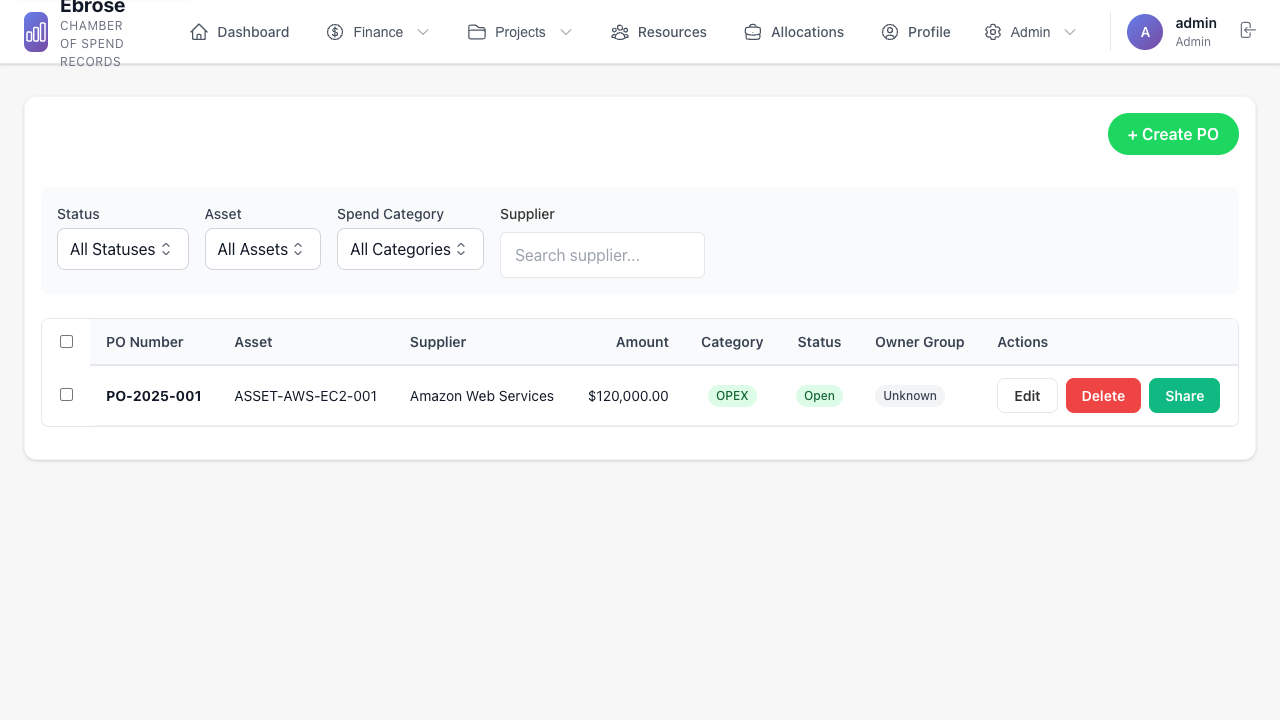
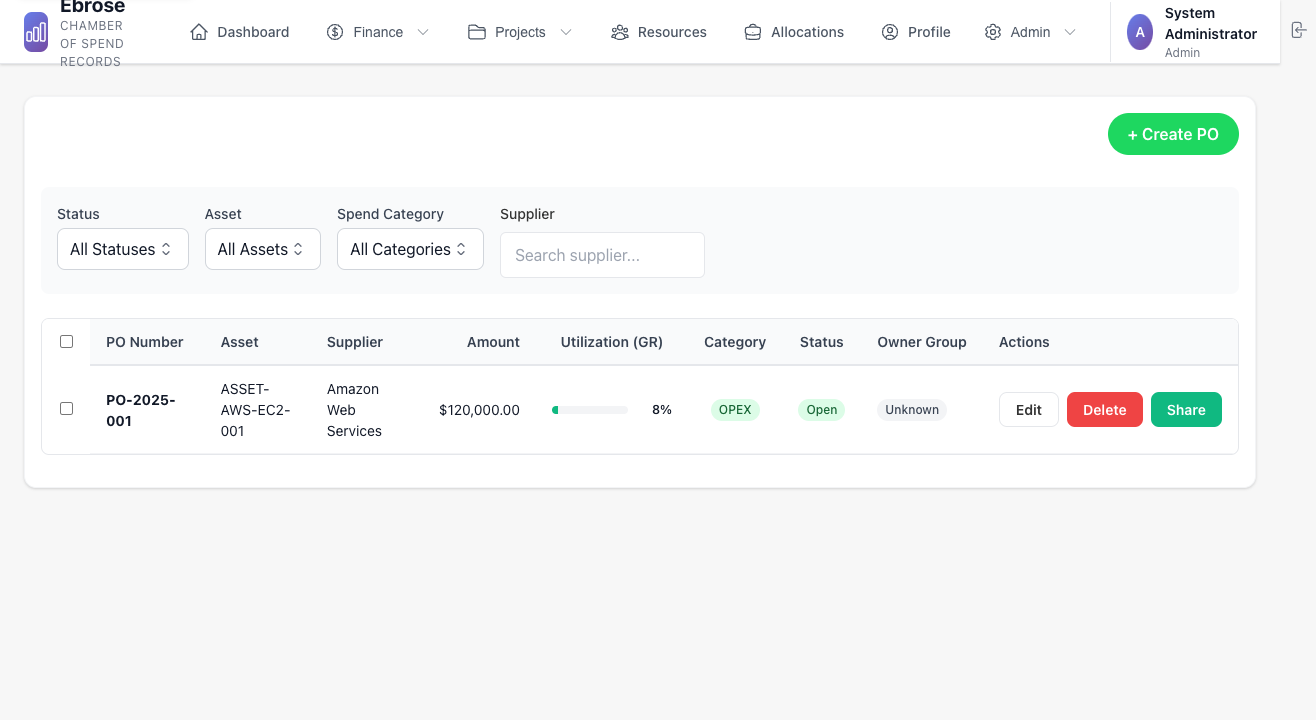
feat: add GR-based utilization tracker to PO page
- Calculate utilization percentage per PO from linked GRs
- Add progress bar with color coding (green <50%, yellow <80%, red ≥80%)
- Match dashboard utilization color logic

diff --git a/frontend/app/pages/purchase-orders.vue b/frontend/app/pages/purchase-orders.vue
@@ -54,9 +54,22 @@ interface Group {
   name: string
 }
 
+interface GoodsReceipt {
+  id: number
+  po_id: number
+  gr_number: string
+  gr_date?: string
+  amount: string
+  description?: string
+  owner_group_id: number
+  created_by?: number
+  created_at?: string
+}
+
 const items = ref<PurchaseOrder[]>([])
 const assets = ref<Asset[]>([])
 const groups = ref<Group[]>([])
+const goodsReceipts = ref<GoodsReceipt[]>([])
 const loading = ref(true)
 const error = ref<string | null>(null)
 
@@ -159,9 +172,19 @@ const fetchGroups = async () => {
   }
 }
 
+const fetchGoodsReceipts = async () => {
+  try {
+    const data = await useApiFetch('/goods-receipts', { method: 'GET' })
+    goodsReceipts.value = data as GoodsReceipt[]
+  } catch (e: any) {
+    console.error('Failed to fetch goods receipts:', e)
+  }
+}
+
 onMounted(async () => {
   await fetchAssets()
   await fetchGroups()
+  await fetchGoodsReceipts()
   await fetchItems()
 })
 
@@ -215,6 +238,32 @@ const formatCurrency = (amount: string | number, currency: string) => {
     style: 'currency',
     currency: currency || 'USD'
   }).format(num)
+}
+
+// Utilization tracking based on Goods Receipts
+const getUtilizedAmount = (poId: number): number => {
+  return goodsReceipts.value
+    .filter(gr => gr.po_id === poId)
+    .reduce((sum, gr) => sum + (parseFloat(gr.amount) || 0), 0)
+}
+
+const getUtilizationPercentage = (po: PurchaseOrder): number => {
+  const totalAmount = parseFloat(po.total_amount) || 0
+  if (totalAmount === 0) return 0
+  const utilizedAmount = getUtilizedAmount(po.id)
+  return Math.round((utilizedAmount / totalAmount) * 100)
+}
+
+const getUtilizationColor = (percentage: number): string => {
+  if (percentage < 50) return 'var(--color-success)'
+  if (percentage < 80) return 'var(--color-warning)'
+  return 'var(--color-danger)'
+}
+
+const getUtilizationVariant = (percentage: number): 'success' | 'warning' | 'danger' => {
+  if (percentage < 50) return 'success'
+  if (percentage < 80) return 'warning'
+  return 'danger'
 }
 
 // Permissions
@@ -377,6 +426,7 @@ const tableColumns = [
   { key: 'asset', label: 'Asset', sortable: false },
   { key: 'supplier', label: 'Supplier', sortable: true },
   { key: 'total_amount', label: 'Amount', sortable: true, align: 'right' as const },
+  { key: 'utilization', label: 'Utilization (GR)', sortable: false, align: 'center' as const },
   { key: 'spend_category', label: 'Category', sortable: true, align: 'center' as const },
   { key: 'status', label: 'Status', sortable: true, align: 'center' as const },
   { key: 'owner_group', label: 'Owner Group', sortable: false },
@@ -457,6 +507,23 @@ const tableColumns = [
 
       <template #cell-total_amount="{ value, row }">
         {{ formatCurrency(value, row.currency) }}
+      </template>
+
+      <template #cell-utilization="{ row }">
+        <div class="utilization-cell">
+          <div class="utilization-bar-bg">
+            <div
+              class="utilization-bar-fill"
+              :style="{
+                width: getUtilizationPercentage(row) + '%',
+                backgroundColor: getUtilizationColor(getUtilizationPercentage(row))
+              }"
+            ></div>
+          </div>
+          <span class="utilization-text">
+            {{ getUtilizationPercentage(row) }}%
+          </span>
+        </div>
       </template>
 
       <template #cell-spend_category="{ value }">
@@ -763,6 +830,33 @@ const tableColumns = [
 .action-buttons {
   display: flex;
   gap: var(--spacing-2);
+}
+
+.utilization-cell {
+  display: flex;
+  align-items: center;
+  gap: var(--spacing-2);
+  min-width: 120px;
+}
+
+.utilization-bar-bg {
+  flex: 1;
+  height: 8px;
+  background: var(--color-gray-100);
+  border-radius: var(--radius-full);
+  overflow: hidden;
+}
+
+.utilization-bar-fill {
+  height: 100%;
+  transition: width 0.3s ease;
+}
+
+.utilization-text {
+  font-size: var(--text-xs);
+  font-weight: 600;
+  min-width: 36px;
+  text-align: right;
 }
 
 .form-row {
